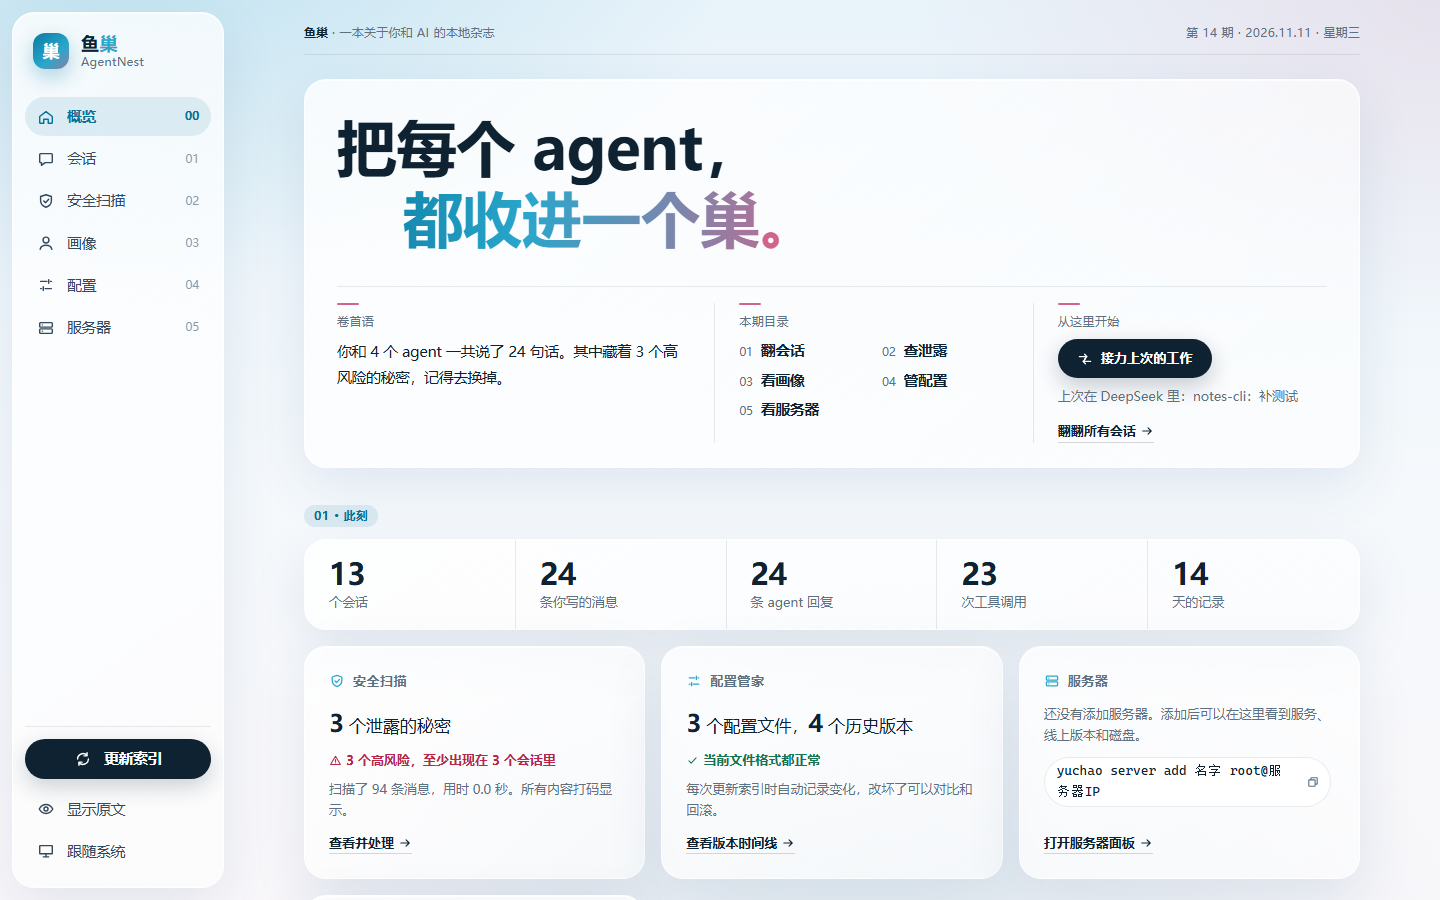
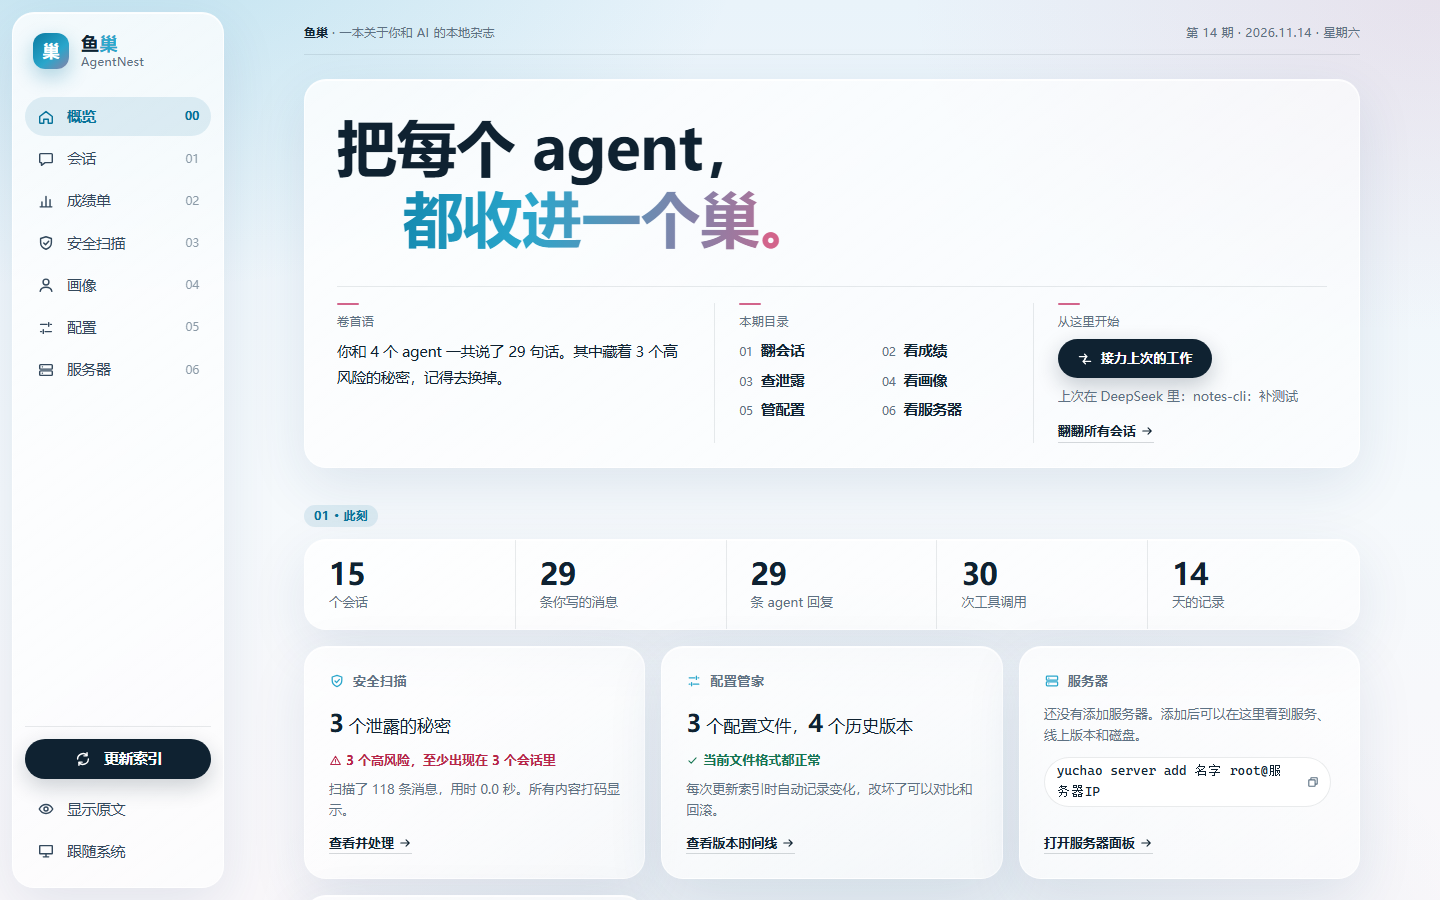
文档：成绩单写进 README（截图、命令）、架构、更新日志；开发日志记录规则在真实数据上的五轮校准；性能文档补上真实数据首次建索引的耗时

diff --git a/docs/devlog.md b/docs/devlog.md
@@ -364,3 +364,52 @@ ssh 参数里固定 `StrictHostKeyChecking=yes`、`BatchMode=yes`、`IdentitiesO
 - **会话标题先截断后打码。** 做演示数据时发现：一个会话的标题是第一句话的前 40 个字，里面的 AWS key 被截成「AKIADEM…」，不再符合规则，显示时的打码就漏掉了它。改成先打码再截断——和摘要早就遵守的原则一样，只是标题这里漏了。
 - **README 和 package.json 都写着 MIT，仓库里却没有 LICENSE 文件。** 在 GitHub 上这等于没有许可。补上。
 - **推送 CI 配置被 GitHub 拒绝。** 修改 `.github/workflows/` 需要 `workflow` 权限，本机保存的授权没有。需要重新授权一次。
+
+## 2026-11-14 · 成绩单：哪个 agent、哪个模型真的把事办成了
+
+### 为什么做这个
+
+会话浏览器、用量统计都已经有人做了。鱼巢手里有一样别人没有的东西：**同一个人用四家 agent 的全部记录**。所以成绩单不回答「花了多少」，回答「值不值」——每个会话最后是顺利完成、返工后完成，还是没解决。其中最有说服力的信号只有多 agent 工具才看得到：一件事在 Claude 里没搞定，转头去 Codex 接着做。
+
+### 先看数据够不够
+
+动手前先在真实数据上数了一遍（只统计数量，不看内容）：
+
+- token 用量和模型名：四家都有，口径各不相同（见 `usage.ts`）
+- 用户明说「还是不行」「好了」：1400 条消息里只有约 80 条——光靠关键词判断成败，样本太少
+- 换 agent：按「同目录、3 小时内」只找到 1 次，因为 WorkBuddy 每天换一个工作目录
+
+结论：成败要靠多层信号叠加，并且每个数字都标出样本量。
+
+### 规则是一条条校准出来的
+
+每改一版规则，就在真实数据上跑一次，看结论是否离谱，再抽查被判错的会话找原因：
+
+| 版本 | 现象 | 原因 | 改法 |
+|---|---|---|---|
+| 1 | Claude 返工率 63%，远高于其它 agent | 「同一个报错出现三次」把 agent 自己试错也算成返工；Claude 执行的命令最多，被罚得最重 | agent 自己试错再修好不算返工，改成单独的「自己纠错」次数 |
+| 1 | 大量「报错」根本不是报错 | 在输出里找 error 这类词：输出里的 `except Exception as e:`、「0 failed」、「无控制台错误」都中招 | 改用 agent 自己记录的执行结果：Claude 的 `is_error`、Codex 的 Script failed 和退出码、WorkBuddy 的 exit code、DeepSeek 的 `isError` |
+| 2 | DeepSeek 82% 没解决 | 最后一次「失败」是用户自己取消的提问、glob 没搜到文件 | 用户中断的调用记为「不知道」；以失败收尾只看执行命令类的工具 |
+| 3 | Claude 仍有 37% 返工 | 「同一个要求重复了」——抽查发现是一排 `Try again` 和一字不差的重发 | 拆成两个指标：一字不差的重发和 Try again 是**接口重试**（中转站出错），换个说法再说一遍才是**返工** |
+| 4 | 「还是不行」之后 agent 修好了，却被判没解决 | 用户常常修好后不再回话 | 说了不行之后，agent 又成功执行过操作的，算返工后完成 |
+| 5 | 「换个说法」没识别出来 | 再说一遍时常常是原话加补充，相似度被多出来的字拉低 | 用重合度（短句有多少落在长句里），并要求两句长度相差不到一倍，排除「没有」「接着」这种短话 |
+
+每次调整都补了对应的测试，现在 `scorecard.test.ts` 里的每个用例都对应一次真实的误判。
+
+### 顺手修掉的问题
+
+- **Codex 定时任务的 `<heartbeat>` 被当成用户的话。** 成绩单抽查时发现，搜索和画像里也一直混着这些心跳。
+- **报错识别从「猜」改成「读」之后，接力功能也能受益**：之后可以把接力里的「最近的报错」也换成这套规则。
+
+### 你的数据里看出了什么
+
+- Claude 重试了 76 次，比其它几家加起来还多——用的 Claude 中转站不稳定，不是 Claude 能力问题
+- hy3 平均要你说 29 句才完成一件事，返工率 43%
+- DeepSeek v4.1 flash 顺利率 93%，每件顺利的事只花 66k 输出 token
+- 不同 agent 接到的活难度不同：WorkBuddy 每件事只花 5k token，多半是因为交给它的事本来就小。页面上写明了这一点，避免误读
+
+### 已知的局限
+
+- 「顺利」只代表没有出现失败的信号，不代表用户一定满意
+- 接力的相似度匹配会把「同一个测试题在几家 agent 里各问一遍」也算成接力
+- DeepSeek Harness 的记录里没有缓存数据，它的输入 token 可能不含缓存

diff --git a/README.md b/README.md
@@ -5,9 +5,7 @@
 ![Node](https://img.shields.io/badge/node-%E2%89%A524-339933)
 [![License: MIT](https://img.shields.io/badge/license-MIT-blue)](LICENSE)
 
-把 Claude Code、Codex、WorkBuddy、DeepSeek Harness 等多个 AI agent 的本地会话管在一起：一个搜索框搜遍所有 agent 的历史，顺便找出你不小心贴进对话里的密码。
-
-![概览页](docs/images/overview.png)
+把 Claude Code、Codex、WorkBuddy、DeepSeek Harness 等多个 AI agent 的本地会话管在一起：一个搜索框搜遍所有 agent 的历史；一张成绩单看清每个 agent、每个模型到底有没有把事办成；顺便找出你不小心贴进对话里的密码。
 
 **先试试**——用一套演示数据启动，不读取你电脑上的任何会话：
 
@@ -26,12 +24,29 @@ npm run demo
 | | |
 |---|---|
 | 搜索延迟 | 作者本机 6.5 万条真实消息：**P50 15 毫秒，P95 17 毫秒**（优化前 P95 264 毫秒，[过程](docs/perf.md)） |
-| 首次建索引 | 10 万条消息约 5 秒，约 2 万条/秒；之后只重新解析有变化的文件 |
-| 网页体积 | JS 经 gzip 84 KB，不用任何 UI 库、图标库、Markdown 库；CI 里有 100 KB 的预算 |
-| 测试 | 124 个，行覆盖率 95%；端到端测试用临时家目录真实启动命令行，画像生成对着假的大模型接口跑完整流程 |
+| 首次建索引 | 10 万条合成消息约 5 秒；作者本机真实数据（工具输出多，索引 534 MB）约 100 秒。之后只重新解析有变化的文件 |
+| 网页体积 | JS 经 gzip 86 KB，不用任何 UI 库、图标库、Markdown 库；CI 里有 100 KB 的预算 |
+| 测试 | 143 个，行覆盖率 95%；端到端测试用临时家目录真实启动命令行，画像生成对着假的大模型接口跑完整流程 |
 | 运行时依赖 | 5 个 |
 
-## 能做什么
+## 成绩单：哪个 agent、哪个模型真的把事办成了
+
+![成绩单](docs/images/score.png)
+
+用量工具只告诉你花了多少 token。鱼巢同时拿着几家 agent 的记录，能回答**值不值**：每个会话最后是顺利完成、返工后完成，还是没解决。
+
+- **判断依据是会话里实际发生的事**：agent 自己记录的执行结果（Claude 的 `is_error`、Codex 的退出码……）、你说过的「还是不行」、你有没有换个说法把要求再说一遍
+- **只有多 agent 工具才看得到的信号**：一件事在 Claude 里没搞定、转头去 Codex 接着做——这是「没解决」最真实的证据
+- **区分 agent 的问题和接口的问题**：一字不差地重发、`Try again` 算接口重试，不算 agent 返工；agent 自己试错再修好也不算返工
+- **每个结论都能点进去看原因**，样本少的行会标出来；不调用大模型，不花钱
+
+规则是在作者真实的 160 多个会话上一条条校准出来的，过程见 [devlog](docs/devlog.md)。
+
+```bash
+yuchao score --days 30 --all
+```
+
+## 其它功能
 
 - **一个搜索框搜所有 agent**：中文全文搜索（SQLite FTS5 trigram，不需要分词词典）；增量索引；子 agent 挂在父会话下；分叉会话复制的历史只出现一次
 - **安全扫描**：找出会话里泄露的密码、API key、私钥、服务器凭据；同一个秘密归为一组；界面和报告默认打码
@@ -43,6 +58,7 @@ npm run demo
 
 | | |
 |---|---|
+| ![概览](docs/images/overview.png) | ![成绩单（深色）](docs/images/score-dark.png) |
 | ![会话](docs/images/session.png) | ![安全扫描（深色）](docs/images/scan-dark.png) |
 | ![画像](docs/images/profile.png) | ![概览（深色）](docs/images/overview-dark.png) |
 
@@ -116,6 +132,7 @@ node src/cli/main.ts serve
 | `config` | 配置文件状态；`config import` 导入旧备份，`config log <文件>` 查看历史 |
 | `config diff <文件> [旧] [新]` | 对比两个版本（已打码） |
 | `config restore <版本> --yes` | 回滚，先保存当前内容；损坏的版本需要 `--force` |
+| `score` | 成绩单：每个 agent、每个模型的顺利 / 返工 / 没解决比例和 token 花费；`--days 30` 只看最近 30 天，`--all` 列出没解决和返工的会话及原因，`--json` 输出 JSON |
 | `handoff <会话id> [--to codex]` | 接力：生成交接说明，粘贴给另一个 agent；会话 id 写 `latest` 表示最近一个会话，后面接 `\| clip` 直接复制 |
 | `server [名字]` | 服务器面板：服务、版本、磁盘、最近的异常（只读）；`--json` 输出 JSON |
 | `server add <名字> <用户名@主机>` | 添加服务器，`--url` 填公网地址用于检查 HTTPS |

diff --git a/CHANGELOG.md b/CHANGELOG.md
@@ -2,6 +2,18 @@
 
 格式参考 [Keep a Changelog](https://keepachangelog.com/zh-CN/1.1.0/)，版本号遵循 [语义化版本](https://semver.org/lang/zh-CN/)。
 
+## [未发布]
+
+### 新增
+
+- **成绩单**（`yuchao score`、网页「成绩单」页、概览卡片）：每个 agent、每个模型的会话里，多少顺利完成、多少返工后完成、多少没解决，以及平均要说几句、每件顺利的事花多少 token、缓存命中率、接口重试次数。判断只依据会话里实际发生的事，每个结论带原因；能识别「在一个 agent 里没搞定、换到另一个接着做」
+- 解析时记录每个会话按模型汇总的 token 用量，四家口径统一
+- 解析时记录每次工具调用 agent 自己写下的执行结果（成功 / 失败 / 不知道）
+
+### 修复
+
+- Codex 定时任务注入的 `<heartbeat>` 不再被当成用户写的话（影响搜索和画像）
+
 ## [0.2.0] - 2026-11-11
 
 工程化：这一版没有新功能，目标是让项目经得起检查——每次提交都有机器把关，性能有可复现的数字，安全有成文的威胁模型。

diff --git a/docs/perf.md b/docs/perf.md
@@ -104,5 +104,6 @@ trigram 全文索引只能匹配 3 个字以上的词，「报错」「回滚」
 
 ## 还没做的
 
+- **真实数据上的首次建索引仍然要 100 秒左右**：作者本机的索引有 534 MB，主要是工具输出（每条最多保留 2000 字）。合成基准里每条消息只有几十个字，测不出这一点。解析规则升级时会触发一次完整重建，用户会等上一两分钟；可以考虑先建不含工具输出的索引让界面先可用，工具输出在后台补上。
 - **常见词在超大数据量下仍然线性增长**：36 万条消息、数据库 114 MB 时，常见词要回表几万次，缓存装不下，P95 到 110 毫秒。下一步可以把 `ts` 存进全文索引的辅助列，排序时不必回表；或者按时间倒序分段检索，凑够条数就停。
 - **两字词**：仍然是线性扫描，只是扫的范围小了。可以再加一个 bigram 分词的全文索引，代价是索引体积大约翻倍。
